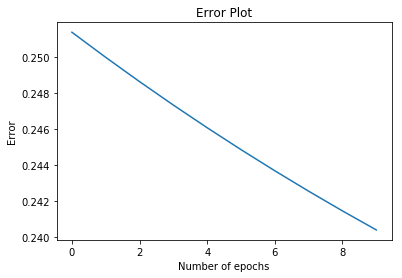
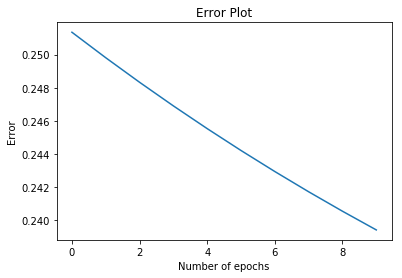
add comment

diff --git a/README.md b/README.md
@@ -26,13 +26,13 @@
 
 [Mini-batch_example](https://github.com/dylan-shao/ML-DS-Udacity_Data_Scientist_Nanodegree/blob/master/1.%20Supervised%20Learning%20Projects/Mini-batch_example)
 
-[PolynomialRegression](https://github.com/dylan-shao/ML-DS-Udacity_Data_Scientist_Nanodegree/blob/master/1.%20Supervised%20Learning%20Projects/PolynomialRegression)
-
 [Perceptron](https://github.com/dylan-shao/ML-DS-Udacity_Data_Scientist_Nanodegree/blob/master/1.%20Supervised%20Learning%20Projects/Perceptron)
 
-[Regularization_FeatureScaling](https://github.com/dylan-shao/ML-DS-Udacity_Data_Scientist_Nanodegree/blob/master/1.%20Supervised%20Learning%20Projects/Regularization_FeatureScaling)
+[PolynomialRegression](https://github.com/dylan-shao/ML-DS-Udacity_Data_Scientist_Nanodegree/blob/master/1.%20Supervised%20Learning%20Projects/PolynomialRegression)
 
 [SVM](https://github.com/dylan-shao/ML-DS-Udacity_Data_Scientist_Nanodegree/blob/master/1.%20Supervised%20Learning%20Projects/SVM)
+
+[Regularization_FeatureScaling](https://github.com/dylan-shao/ML-DS-Udacity_Data_Scientist_Nanodegree/blob/master/1.%20Supervised%20Learning%20Projects/Regularization_FeatureScaling)
 
 [Spam_&_Ensembles](https://github.com/dylan-shao/ML-DS-Udacity_Data_Scientist_Nanodegree/blob/master/1.%20Supervised%20Learning%20Projects/Spam_%26_Ensembles)
 

diff --git a/2. Deep learning/StudentAdmissions with hidden layer/README.md b/2. Deep learning/StudentAdmissions with hidden layer/README.md
@@ -15,7 +15,7 @@ def sigmoid(x):
 
 # Hyperparameters
 n_hidden = 2  # number of hidden units
-epochs = 900
+epochs = 1000
 learnrate = 0.005
 errors = []
 
@@ -80,15 +80,15 @@ for e in range(epochs):
 ```
 
     Train loss:  0.25135725242598617
-    Train loss:  0.24996540718842886
-    Train loss:  0.24862005218904654
-    Train loss:  0.24731993217179746
-    Train loss:  0.24606380465584848
-    Train loss:  0.24485044179257162
-    Train loss:  0.2436786320186832
-    Train loss:  0.24254718151769536
-    Train loss:  0.24145491550165465
-    Train loss:  0.24040067932493367
+    Train loss:  0.24981365054426322
+    Train loss:  0.24832727139249444
+    Train loss:  0.24689639589640808
+    Train loss:  0.24551932509722565
+    Train loss:  0.24419438319954262
+    Train loss:  0.2429199202432574
+    Train loss:  0.241694314424847
+    Train loss:  0.24051597409282188
+    Train loss:  0.239383339441441
 
 
 
@@ -107,6 +107,7 @@ plt.xlabel('Number of epochs')
 plt.ylabel('Error')
 plt.plot(errors)
 plt.show()
+
 ```
 
     Prediction accuracy: 0.725
@@ -115,3 +116,8 @@ plt.show()
 
 ![png](output_1_1.png)
 
+
+
+```python
+# TODO: this is higher than the one without hidden layer, figure out why
+```
